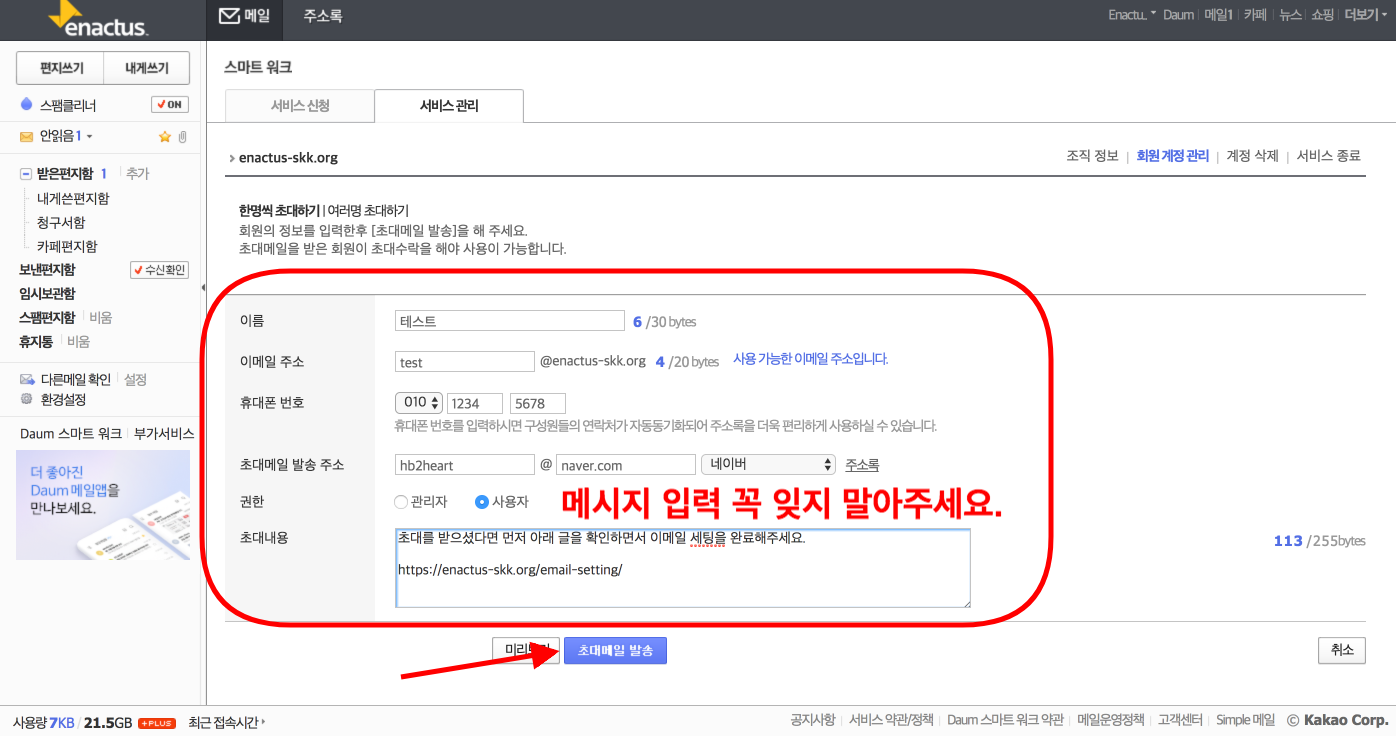
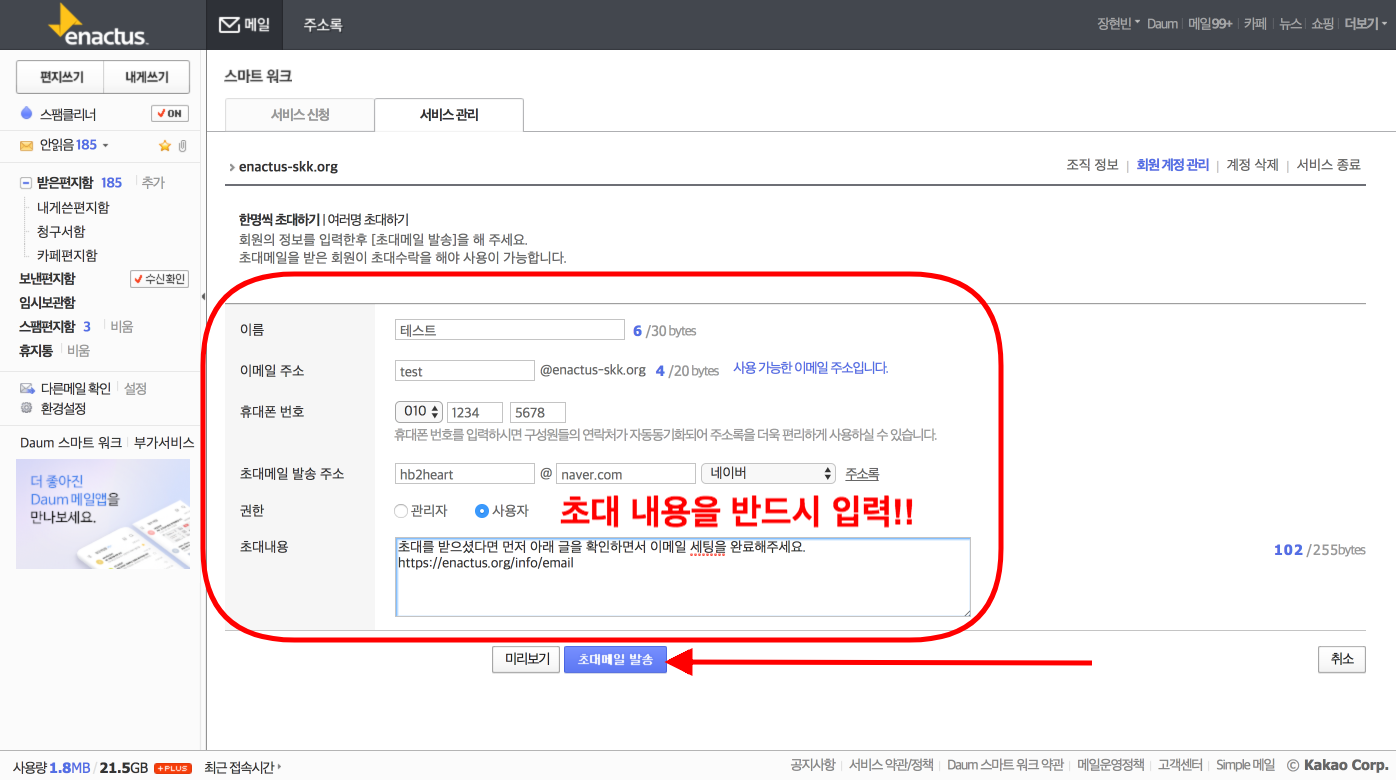
version 1.0

diff --git a/email-invite.md b/email-invite.md
@@ -2,7 +2,7 @@
 title: '@enactus-skk.org 메일 초대하기'
 sitemap: false
 layout: post
-permalink: email-invite.html
+permalink: info/email/invite.html
 ---
 
 > 다음의 사항을 확인해주세요.
@@ -58,7 +58,7 @@ enactus.skk 혹은 **mail@enactus-skk.org 로도 로그인 가능**하게 해주
 
 + **초대 내용은 아래의 내용을 전체 복사하면 됩니다.**
 
-    ***초대를 받으셨다면 먼저 아래 글을 확인하면서 이메일 세팅을 완료해주세요. https://enactus.org/email-setting/***
+    ***초대를 받으셨다면 먼저 아래 글을 확인하면서 이메일 세팅을 완료해주세요. https://enactus.org/info/email***
 
 
 ![](/images/info/email-5.png)

diff --git a/email-setting.md b/email-setting.md
@@ -2,7 +2,7 @@
 title: '@enactus-skk.org 메일 세팅하기'
 sitemap: false
 layout: post
-permalink: email-setting.html
+permalink: info/email.html
 ---
 
 > 다음의 사항을 확인해주세요.
